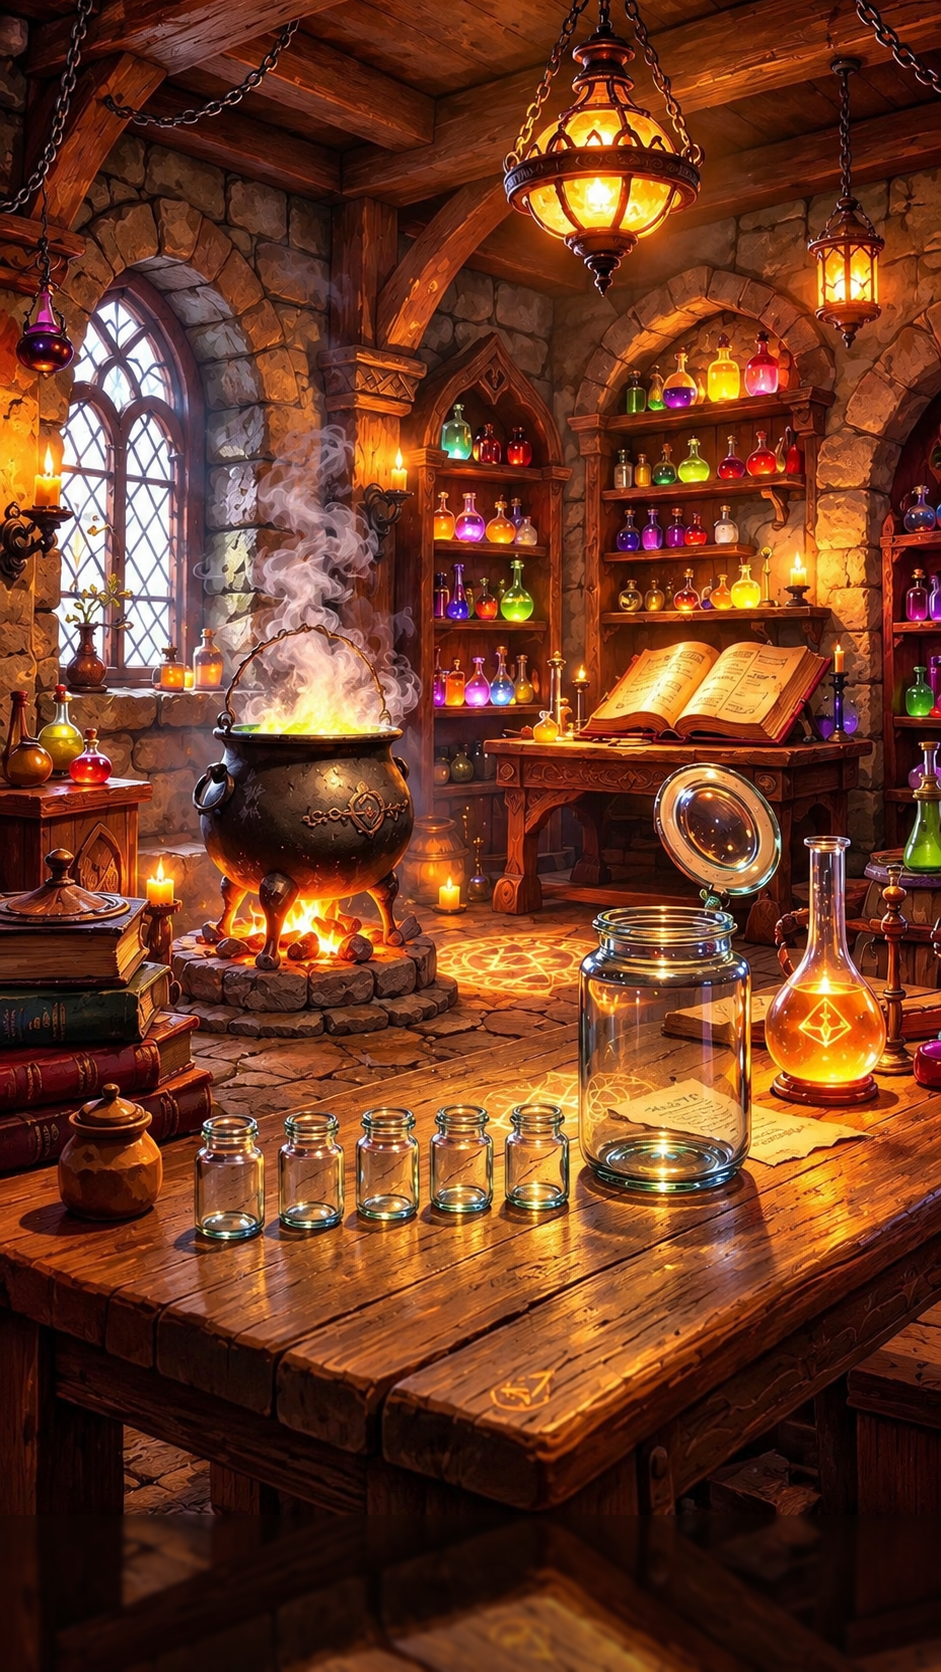
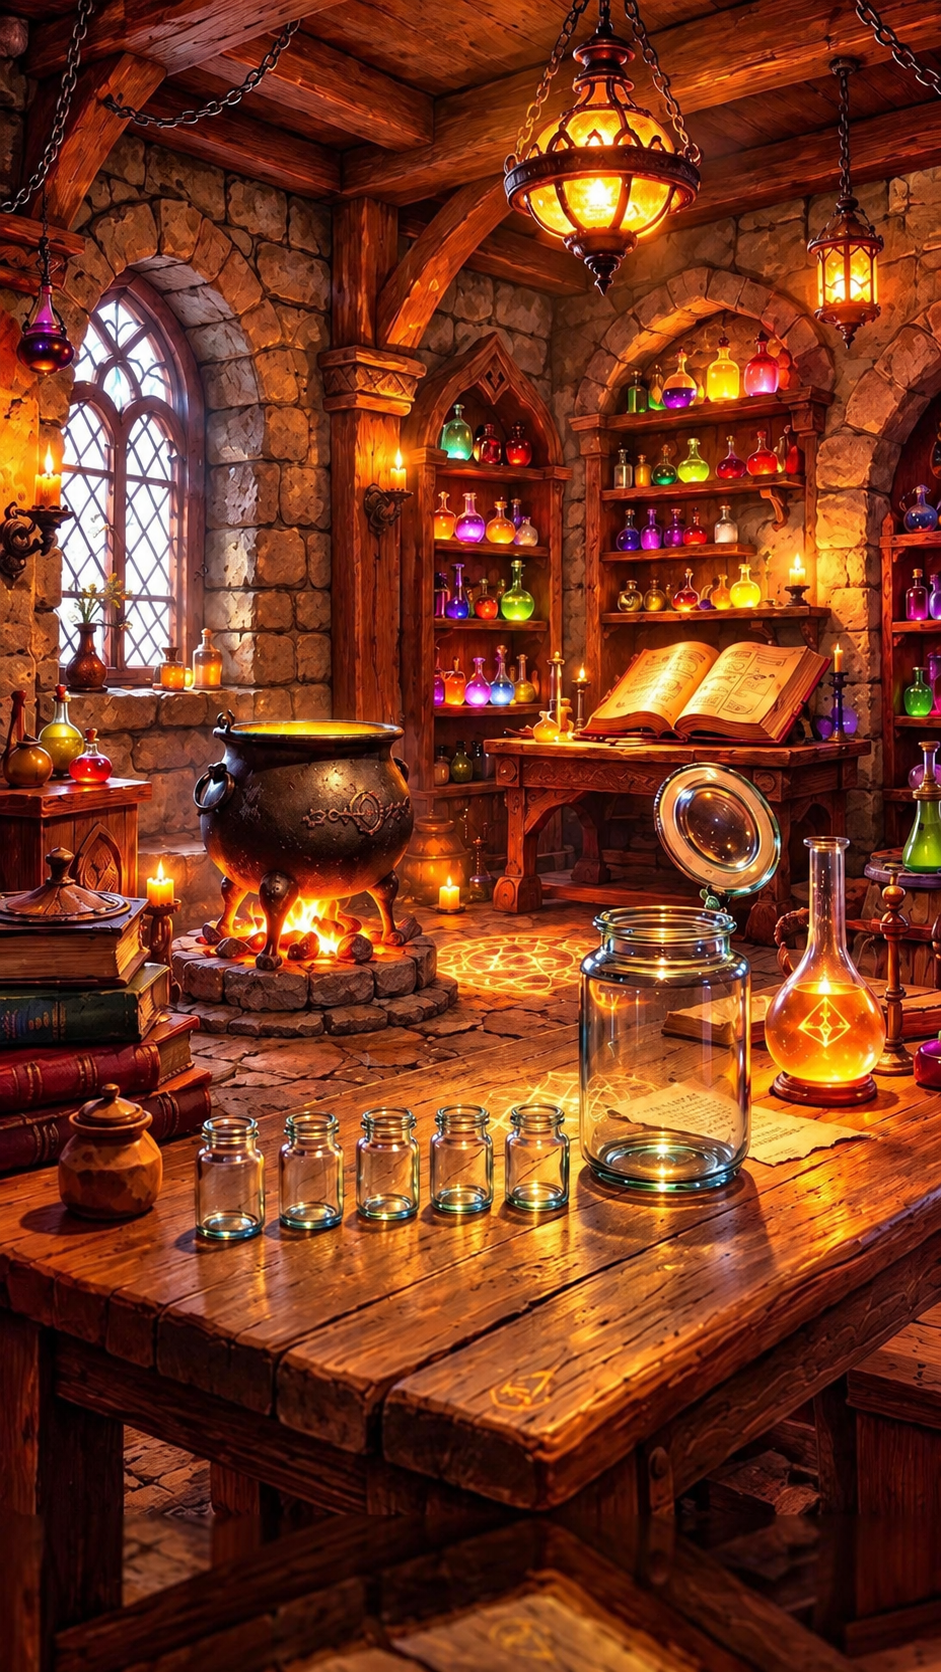
add effect to background slime

diff --git a/src/slime.py b/src/slime.py
@@ -1318,6 +1318,140 @@ def _bez(p0, pc, p1, k):
     return (a * p0[0] + b * pc[0] + e * p1[0], a * p0[1] + b * pc[1] + e * p1[1])
 
 
+# ================================================================== EFEK LATAR BERGERAK (lab2)
+# koordinat ruang 1080 x 1920 pada gambar assets/lab_bg2.png (sudah digeser). Semua efek tanpa-state: fungsi dari waktu t.
+BG_FX = True
+_GL, _PF = {}, {}
+
+
+def _hash(i, k=0):
+    v = math.sin(i * 12.9898 + k * 78.233) * 43758.5453
+    return v - math.floor(v)
+
+
+def _glow_sprite(r, col):
+    key = (r, col)
+    if key not in _GL:
+        n = 2 * r
+        yy, xx = np.mgrid[0:n, 0:n]
+        a = np.exp(-(((xx - r + .5) ** 2 + (yy - r + .5) ** 2) / (r * r)) * 3.2)
+        arr = (a[..., None] * np.array(col, dtype=np.float64)[None, None, :]).clip(0, 255).astype(np.uint8)
+        _GL[key] = Image.fromarray(arr, "RGB")
+    return _GL[key]
+
+
+def _add_glow(img, cx, cy, r, col, k):
+    """Cahaya aditif (screen-ish): k = intensitas 0..1."""
+    r = max(2, int(r))
+    if k <= 0.01:
+        return
+    sp = _glow_sprite(r, col)
+    k = min(1.0, k)
+    sp = sp.point([int(i * k) for i in range(256)] * 3)
+    x0, y0 = int(cx - r), int(cy - r)
+    bx0, by0, bx1, by1 = max(0, x0), max(0, y0), min(img.width, x0 + 2 * r), min(img.height, y0 + 2 * r)
+    if bx1 <= bx0 or by1 <= by0:
+        return
+    sub = sp.crop((bx0 - x0, by0 - y0, bx1 - x0, by1 - y0))
+    img.paste(ImageChops.add(img.crop((bx0, by0, bx1, by1)), sub), (bx0, by0))
+
+
+def _puff(r):
+    if r not in _PF:
+        n = 2 * r
+        yy, xx = np.mgrid[0:n, 0:n]
+        a = np.exp(-(((xx - r + .5) ** 2 + (yy - r + .5) ** 2) / (r * r)) * 2.6)
+        _PF[r] = Image.fromarray((a * 255).astype(np.uint8), "L")
+    return _PF[r]
+
+
+def _flick(t, i, fast=True):
+    if fast:
+        v = 0.78 + 0.22 * math.sin(t * 7.3 + i * 2.1) * math.sin(t * 11.7 + i * 5.3) + 0.10 * math.sin(t * 23.0 + i * 1.7)
+    else:
+        v = 0.88 + 0.10 * math.sin(t * 2.1 + i) + 0.05 * math.sin(t * 5.3 + i * 3.0)
+    return max(0.35, min(1.1, v))
+
+
+FX_LANTERNS = [(687, 215, 175, (255, 165, 60), 0.55), (970, 305, 115, (255, 165, 60), 0.5), (50, 390, 75, (210, 90, 255), 0.35)]
+FX_CANDLES = [(53, 548), (457, 538), (916, 650), (963, 752), (184, 1015), (515, 1022)]
+FX_BOTTLES = [(829, 429, (255, 230, 60)), (875, 424, (255, 80, 130)), (780, 440, (255, 190, 60)), (524, 496, (80, 255, 120)),
+              (557, 511, (255, 70, 70)), (763, 531, (90, 255, 120)), (797, 536, (200, 255, 80)), (837, 531, (255, 70, 70)),
+              (875, 527, (255, 70, 90)), (724, 607, (170, 90, 255)), (749, 607, (255, 90, 220)), (800, 609, (255, 80, 80)),
+              (511, 593, (255, 170, 60)), (540, 593, (255, 110, 200)), (576, 597, (255, 160, 50)), (595, 660, (90, 255, 120)),
+              (527, 677, (170, 90, 255)), (549, 773, (200, 100, 255)), (576, 757, (80, 180, 255)), (857, 673, (255, 170, 50)),
+              (825, 680, (255, 220, 70)), (67, 843, (200, 255, 80)), (103, 877, (255, 70, 70)), (33, 867, (255, 160, 50)),
+              (197, 771, (255, 160, 50)), (240, 763, (255, 190, 80)), (1053, 800, (90, 255, 120))]
+
+
+def bg_fx(img, t, u):
+    """1 kedip lampu/lilin, 2 asap kuali, 3 debu cahaya, 4 denyut cahaya ramuan. Digambar di atas latar, sebelum karakter."""
+    S = lambda v: v * u
+    # 1) lentera & lilin berkedip
+    for i, (x, y, r, col, k) in enumerate(FX_LANTERNS):
+        _add_glow(img, S(x), S(y), S(r), col, k * _flick(t, i, fast=False))
+    for i, (x, y) in enumerate(FX_CANDLES):
+        f = _flick(t, i + 3)
+        _add_glow(img, S(x), S(y), S(62), (255, 175, 70), 0.55 * f)
+        _add_glow(img, S(x), S(y - 6), S(20), (255, 235, 170), 0.55 * f)
+    # api & kuali
+    _add_glow(img, S(353), S(1060), S(185), (255, 110, 25), 0.50 * _flick(t, 40))
+    _add_glow(img, S(345), S(838), S(170), (200, 255, 80), 0.42 + 0.14 * math.sin(t * 2.6))
+    _add_glow(img, S(345), S(832), S(80), (255, 240, 120), 0.35 + 0.25 * math.sin(t * 4.1 + 1.0) ** 2)
+    # 4) cahaya ramuan berdenyut
+    for i, (x, y, col) in enumerate(FX_BOTTLES):
+        per = 2.4 + 2.2 * _hash(i, 3)
+        ph = 0.5 + 0.5 * math.sin(2 * math.pi * t / per + i * 1.9)
+        _add_glow(img, S(x), S(y), S(40), col, 0.10 + 0.34 * ph * ph)
+    # 2) asap kuali: kepulan berbentuk kerucut/segitiga (sempit di mulut kuali, melebar ke atas), menguap & memudar ke atas
+    NP, PER, RISE = 44, 8.0, 470
+    for i in range(NP):
+        tl = ((t + i * PER / NP) % PER) / PER                  # 0 = di mulut kuali, 1 = puncak (hilang)
+        lane = (_hash(i, 31) * 2 - 1) * 0.9                    # posisi lateral relatif dlm kerucut (-1..1)
+        half = 14 + 150 * tl ** 0.9                            # setengah lebar kerucut membesar ke atas
+        x = 345 + 0.16 * RISE * tl + lane * half + 16 * math.sin(t * 0.9 + i * 1.7 + tl * 4.0) * tl
+        y = 836 - RISE * tl
+        r = int(S(26 + 78 * tl))
+        a = min(1.0, tl / 0.10) * (1 - tl) ** 1.2 * 0.62      # muncul halus di bawah, memudar ke atas
+        if a < 0.01:
+            continue
+        m = _puff(max(2, r)).point([int(v * a) for v in range(256)])
+        low = max(0.0, 1 - tl * 3.0)                           # dekat mulut kuali tersinari api (kehijauan-kuning)
+        col = (int(238 + (205 - 238) * low), int(232 + (255 - 232) * low), int(240 + (150 - 240) * low))
+        img.paste(Image.new("RGB", m.size, col), (int(S(x) - r), int(S(y) - r)), m)
+    # botol kuning/oranye di meja: halo + inti berdenyut + gelembung naik + percikan dari leher botol
+    fk = 0.5 + 0.5 * math.sin(t * 2.2)
+    _add_glow(img, S(950), S(1185), S(210), (255, 170, 40), 0.30 + 0.20 * fk)
+    _add_glow(img, S(950), S(1190), S(95), (255, 225, 90), 0.30 + 0.38 * fk)
+    dr = ImageDraw.Draw(img)
+    for i in range(9):
+        per = 3.2 + 1.8 * _hash(i, 11)
+        tl = ((t + i * per / 9) % per) / per
+        bx = 950 + 38 * math.sin(tl * 6 + i * 2.3) * (0.4 + 0.6 * _hash(i, 12))
+        by = 1255 - 125 * tl
+        br = (4 + 5 * _hash(i, 13)) * u
+        al = math.sin(math.pi * tl) ** 0.6
+        _add_glow(img, S(bx), by * u, br * 3.2, (255, 235, 150), 0.45 * al)
+        dr.ellipse((S(bx) - br, by * u - br, S(bx) + br, by * u + br), outline=(255, 248, 200), width=max(1, int(2 * u)))
+    for i in range(6):
+        per = 3.8 + 1.5 * _hash(i, 21)
+        tl = ((t + i * per / 6) % per) / per
+        sx = 950 + 26 * math.sin(tl * 7 + i * 1.9)
+        sy = 1000 - 190 * tl
+        al = math.sin(math.pi * tl) ** 0.8
+        _add_glow(img, S(sx), sy * u, S(16), (255, 210, 90), 0.55 * al)
+        _add_glow(img, S(sx), sy * u, S(4), (255, 250, 225), 0.9 * al)
+    # 3) debu cahaya / kunang-kunang
+    for i in range(34):
+        bx = _hash(i, 1) * 1080
+        yb = 1300 - ((_hash(i, 2) * 1100 + t * (9 + 10 * _hash(i, 4))) % 1100)
+        x = (bx + 45 * math.sin(t * 0.45 + i) + t * 5) % 1080
+        tw = 0.5 + 0.5 * math.sin(t * (1.2 + _hash(i, 5)) + i * 1.7)
+        rr = 9 + 9 * _hash(i, 6)
+        _add_glow(img, S(x), S(yb), S(rr), (255, 214, 120), 0.18 + 0.55 * tw)
+        _add_glow(img, S(x), S(yb), S(3), (255, 250, 220), 0.35 + 0.6 * tw)
+
+
 def frame_lab(t, c, segs, total, bg, w, h):
     u = w / 1080
     if not LAYOUTS:
@@ -1328,6 +1462,8 @@ def frame_lab(t, c, segs, total, bg, w, h):
     big = L['big']
     dy = L['slime']['gy'] - 1625
     img = bg.copy()
+    if BG_FX and L.get('behind'):
+        bg_fx(img, t, u)
     d = ImageDraw.Draw(img)
     final = tuple(c["rgb"])
     keys = list(c["paint_keys"])
